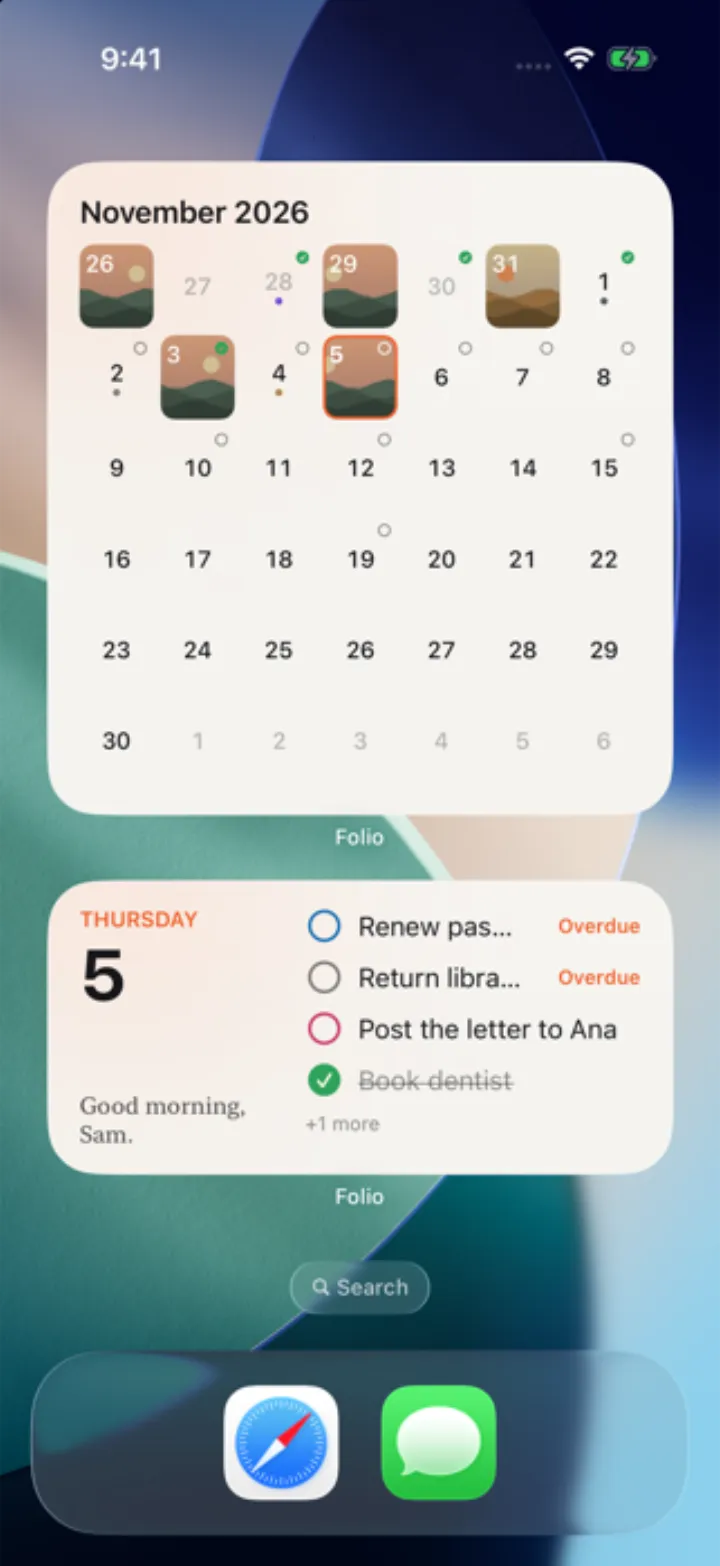
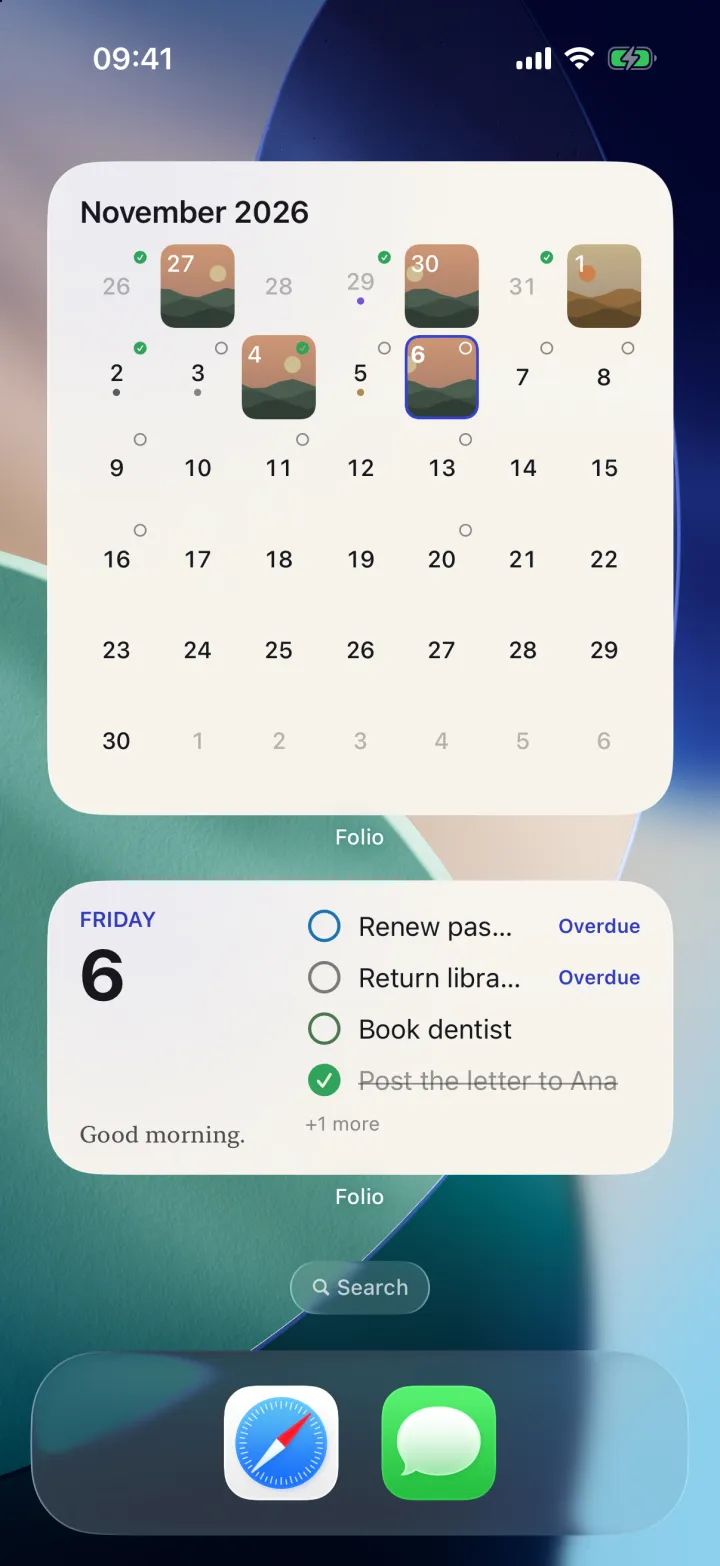
Batch L Part 1: web sign-in renders at once (no splash; inline loader only while a signed-in browser opens), Ink widget screenshots, plural fixes (widgets, Year in Pixels, web), orange leftovers on the home page; decisions 286-287

diff --git a/web/src/app/ui/AppRoot.tsx b/web/src/app/ui/AppRoot.tsx
@@ -35,7 +35,9 @@ const SIGN_IN_ERRORS: Record<string, string> = {
  * account) → the diary. Nothing from the diary exists until the Data Key is in memory.
  */
 export default function AppRoot() {
-  const [phase, setPhase] = useState<Phase>({ kind: 'loading' });
+  // Batch L: no splash. A browser that wasn't signed in sees the sign-in page at once (the
+  // session check runs underneath); one that was shows the gate with a small inline loader.
+  const [phase, setPhase] = useState<Phase>(() => (hadSession() ? { kind: 'loading' } : { kind: 'signedOut', error: urlError() }));
 
   async function boot() {
     try {
@@ -44,8 +46,8 @@ export default function AppRoot() {
       await signedIn(await api<Me>('GET', 'account/me'));
     } catch (error) {
       if (error instanceof ApiError && error.status === 401) {
-        const code = new URLSearchParams(location.search).get('error');
-        setPhase({ kind: 'signedOut', error: code ? SIGN_IN_ERRORS[code] : undefined });
+        rememberSession(false);
+        setPhase({ kind: 'signedOut', error: urlError() });
       } else {
         setPhase({ kind: 'offline' });
       }
@@ -53,6 +55,7 @@ export default function AppRoot() {
   }
 
   async function signedIn(me: Me) {
+    rememberSession(true);
     void reportBrowserName(me.sessionId);
     // Deleting the account needs no key, so that page never unlocks the diary.
     if (location.pathname.startsWith('/app/settings/account')) return setPhase({ kind: 'deleting', me });
@@ -71,6 +74,7 @@ export default function AppRoot() {
   async function signOut() {
     try { await api('POST', 'auth/sign-out', {}); } catch { /* the session ends here either way */ }
     await forgetBrowser();
+    rememberSession(false);
     history.replaceState(null, '', '/app');
     setPhase({ kind: 'signedOut' });
   }
@@ -78,7 +82,7 @@ export default function AppRoot() {
   useEffect(() => { void boot(); }, []);
   useEffect(setUpInstall, []);
 
-  const fallback = <Splash />;
+  const fallback = <Opening />;
   switch (phase.kind) {
     case 'loading': return fallback;
     case 'offline':
@@ -111,13 +115,27 @@ export function Gate({ children }: { children: React.ReactNode }) {
   );
 }
 
-function Splash() {
+/** While a signed-in browser's session and keys load: the gate itself, with one quiet line. */
+function Opening() {
   return (
-    <main className="gate" aria-busy="true">
-      <Mark className="mark" />
-      <span className="sr-only">Loading Folio</span>
-    </main>
+    <Gate>
+      <h1>Your days, kept.</h1>
+      <p className="loading-line" role="status"><span className="spinner" aria-hidden="true" />Opening your diary…</p>
+    </Gate>
   );
+}
+
+const HINT = 'folio.signedIn';
+/** Only a hint for which screen to draw first ("1" after a sign-in here); the cookie decides. */
+function hadSession(): boolean {
+  try { return localStorage.getItem(HINT) === '1'; } catch { return false; }
+}
+export function rememberSession(yes: boolean) {
+  try { if (yes) localStorage.setItem(HINT, '1'); else localStorage.removeItem(HINT); } catch { /* private mode */ }
+}
+function urlError(): string | undefined {
+  const code = new URLSearchParams(location.search).get('error');
+  return code ? SIGN_IN_ERRORS[code] : undefined;
 }
 
 /** Devices shows "Brave on macOS" — Brave's User-Agent says Chrome (DECISIONS 189). */

diff --git a/web/src/app/ui/SignIn.tsx b/web/src/app/ui/SignIn.tsx
@@ -1,7 +1,7 @@
 import { useEffect, useRef, useState } from 'react';
 import { turnstileKey } from '../../config/app.ts';
 import { api, ApiError, friendly } from '../lib/api.ts';
-import { Gate } from './AppRoot.tsx';
+import { Gate, rememberSession } from './AppRoot.tsx';
 import { AppleLogo, GoogleLogo } from './Icons.tsx';
 
 declare global {
@@ -32,8 +32,8 @@ export function SignIn({ error }: { error?: string }) {
           {error && <p className="error" role="alert">{error}</p>}
           <div style={{ display: 'grid', gap: 10, marginTop: 6 }}>
             {asksInvite && <InviteField value={invite} onChange={setInvite} />}
-            <a className="provider apple" href={withInvite('/api/auth/apple/start')}><AppleLogo />Continue with Apple</a>
-            <a className="provider" href={withInvite('/api/auth/google/start?platform=web')}><GoogleLogo />Continue with Google</a>
+            <a className="provider apple" href={withInvite('/api/auth/apple/start')} onClick={() => rememberSession(true)}><AppleLogo />Continue with Apple</a>
+            <a className="provider" href={withInvite('/api/auth/google/start?platform=web')} onClick={() => rememberSession(true)}><GoogleLogo />Continue with Google</a>
             <div className="or">or</div>
             <button className="provider" onClick={() => setStep('email')}>Continue with email</button>
           </div>
@@ -42,7 +42,7 @@ export function SignIn({ error }: { error?: string }) {
       )}
       {step === 'email' && <EmailStep email={email} setEmail={setEmail} onSent={() => setStep('code')} onBack={() => setStep('choose')} />}
       {/* A fresh page load after sign-in: Turnstile's script never shares a page with the diary. */}
-      {step === 'code' && <CodeStep email={email} onDone={() => location.replace(location.pathname)} onBack={() => setStep('email')} />}
+      {step === 'code' && <CodeStep email={email} onDone={() => { rememberSession(true); location.replace(location.pathname); }} onBack={() => setStep('email')} />}
     </Gate>
   );
 }

diff --git a/web/src/app/app.css b/web/src/app/app.css
@@ -504,7 +504,25 @@ body:has(.gate) .aura { opacity: 0.5; }
 .gate .field { border-radius: 16px; }
 .gate-foot { font-size: 13px; color: var(--ink-secondary); text-align: center; }
 .gate-foot a { color: inherit; }
-@media (prefers-reduced-motion: no-preference) { .gate-card { animation: gateIn 0.6s cubic-bezier(0.23, 1, 0.32, 1) both; } }
+/* Batch L: the card only rises in on the very first paint (the static page); React's card replaces
+   it in place without moving, so the sign-in page never appears twice. */
+@media (prefers-reduced-motion: no-preference) { .boot .gate-card { animation: gateIn 0.5s cubic-bezier(0.23, 1, 0.32, 1) both; } }
+.loading-line { display: inline-flex; align-items: center; justify-content: center; gap: 10px; color: var(--ink-secondary); font-size: 15px; margin: 6px 0 4px; min-height: 52px; }
+.spinner { width: 16px; height: 16px; border-radius: 50%; border: 2px solid color-mix(in srgb, var(--ink) 16%, transparent); border-top-color: var(--accent); animation: spin 0.8s linear infinite; }
+@keyframes spin { to { transform: rotate(360deg); } }
+@media (prefers-reduced-motion: reduce) { .spinner { animation-duration: 2.4s; } }
+/* The static first paint: signed-out browsers see the sign-in words, signed-in ones "Opening…".
+   An installed app (standalone) keeps a short launch screen — the mark alone, like iOS. */
+.boot .when-session { display: none; }
+:root[data-session] .boot .when-session { display: inline-flex; }
+:root[data-session] .boot .when-guest { display: none; }
+.boot .launch { display: none; }
+@media (display-mode: standalone) {
+  .boot > :not(.launch, .aura) { display: none; }
+  .boot { grid-template-rows: 1fr; }
+  .boot .launch { display: grid; place-items: center; }
+  .boot .launch svg { width: 72px; height: 72px; }
+}
 @keyframes gateIn { from { opacity: 0; transform: translateY(12px) scale(0.98); } }
 
 @media (prefers-reduced-motion: reduce) {

diff --git a/ios/FolioWidgets/LockScreenWidgets.swift b/ios/FolioWidgets/LockScreenWidgets.swift
@@ -39,9 +39,9 @@ struct NextTaskView: View {
                     Text(next.title).font(.headline).lineLimit(2).privacySensitive()
                     if let time = next.timeText { Text(time).font(.caption) }
                 } else {
-                    Text(entry.openCount == 0 ? String(localized: "All clear") : String(localized: "\(entry.openCount) tasks to do"))
+                    Text(entry.openCount == 0 ? String(localized: "All clear") : (entry.openCount == 1 ? String(localized: "1 task to do") : String(localized: "\(entry.openCount) tasks to do")))
                         .font(.headline)
-                    Text(entry.pagesToday == 0 ? String(localized: "No pages yet today") : String(localized: "\(entry.pagesToday) pages today"))
+                    Text(entry.pagesToday == 0 ? String(localized: "No pages yet today") : (entry.pagesToday == 1 ? String(localized: "1 page today") : String(localized: "\(entry.pagesToday) pages today")))
                         .font(.caption)
                 }
             }
@@ -74,6 +74,6 @@ struct TodayCountView: View {
             Text("\(entry.openCount)").monospacedDigit()
         }
         .gaugeStyle(.accessoryCircularCapacity)
-        .accessibilityLabel(String(localized: "\(entry.openCount) tasks left today"))
+        .accessibilityLabel(entry.openCount == 1 ? String(localized: "1 task left today") : String(localized: "\(entry.openCount) tasks left today"))
     }
 }

diff --git a/ios/FolioWidgets/TodayWidget.swift b/ios/FolioWidgets/TodayWidget.swift
@@ -103,7 +103,7 @@ struct CountsLine: View {
     private var summary: String {
         var parts: [String] = []
         if entry.openCount > 0 { parts.append(String(localized: "\(entry.openCount) to do")) }
-        if entry.pagesToday > 0 { parts.append(String(localized: "\(entry.pagesToday) pages")) }
+        if entry.pagesToday > 0 { parts.append(entry.pagesToday == 1 ? String(localized: "1 page") : String(localized: "\(entry.pagesToday) pages")) }
         return parts.isEmpty ? String(localized: "A clear day") : parts.joined(separator: " · ")
     }
 }
@@ -118,7 +118,7 @@ struct TaskList: View {
         VStack(alignment: .leading, spacing: 7) {
             if !entry.homeDetails || entry.snapshot?.showsDetails == false {
                 Spacer(minLength: 0)
-                Text("\(entry.openCount) tasks to do")
+                Text(entry.openCount == 1 ? String(localized: "1 task to do") : String(localized: "\(entry.openCount) tasks to do"))
                     .font(.headline)
                     .foregroundStyle(WidgetPalette.ink)
                 Text("Turn on details in Folio → Profile → Widgets.")

diff --git a/web/src/app/ui/profile/RecentlyDeleted.tsx b/web/src/app/ui/profile/RecentlyDeleted.tsx
@@ -76,7 +76,7 @@ export default function RecentlyDeleted() {
                   onChange={(e) => { const s = new Set(selected); if (e.target.checked) s.add(item.id); else s.delete(item.id); setSelected(s); }} />}
                 <button className="grow" style={{ border: 0, background: 'none', textAlign: 'left', padding: '4px 0' }} onClick={() => kind === 'entry' && setPreview(preview === item.id ? null : item.id)} aria-expanded={kind === 'entry' ? preview === item.id : undefined}>
                   <span style={{ display: 'block' }}>{title(item.id)}</span>
-                  <span className="callout ink3">{[when(item.id), `${daysLeft(item.data.trashedAt!)} days left`].filter(Boolean).join(' · ')}</span>
+                  <span className="callout ink3">{[when(item.id), (daysLeft(item.data.trashedAt!) === 1 ? '1 day left' : `${daysLeft(item.data.trashedAt!)} days left`)].filter(Boolean).join(' · ')}</span>
                 </button>
                 {!selecting && <>
                   <button className="btn small" onClick={() => restore([item.id])}><Icon name="restore" small />Restore</button>

diff --git a/web/src/app/ui/journal/YearPixels.tsx b/web/src/app/ui/journal/YearPixels.tsx
@@ -54,7 +54,7 @@ export function YearPixels() {
             const opacity = d && byMood && mood ? mood.opacity : 1;
             return (
               <button key={key} className={`pixel${d ? ' written' : ''}${key > today ? ' future' : ''}${key === today ? ' today' : ''}`}
-                disabled={!d} aria-label={`${key}${d ? `, ${d.ids.length} pages${mood ? `, ${mood.title}` : ''}` : ', nothing written'}`}
+                disabled={!d} aria-label={`${key}${d ? `, ${d.ids.length === 1 ? '1 page' : `${d.ids.length} pages`}${mood ? `, ${mood.title}` : ''}` : ', nothing written'}`}
                 style={background ? { background, opacity } : undefined}
                 onClick={() => d && (d.ids.length === 1 ? openEntry(d.ids[0]!) : showDay(key))} />
             );

diff --git a/ios/Folio/Features/Journal/YearInPixelsView.swift b/ios/Folio/Features/Journal/YearInPixelsView.swift
@@ -130,7 +130,7 @@ struct YearPixelGrid: View {
     private func label(day: DayKey, pixel: YearPixel?) -> String {
         let date = day.utcDate.formatted(Date.FormatStyle(timeZone: .gmt).day().month(.wide))
         guard let pixel else { return String(localized: "\(date), nothing written") }
-        let pages = String(localized: "\(pixel.entryIDs.count) pages")
+        let pages = pixel.entryIDs.count == 1 ? String(localized: "1 page") : String(localized: "\(pixel.entryIDs.count) pages")
         return [date, pages, pixel.mood?.title].compactMap { $0 }.joined(separator: ", ")
     }
 }

diff --git a/web/src/three/Lock.tsx b/web/src/three/Lock.tsx
@@ -82,7 +82,7 @@ export function Lock({ dark, input }: { dark: boolean; input: SceneInput }) {
         </mesh>
         {parts.keyhole.map((geometry, i) => (
           <mesh key={i} geometry={geometry} position={[0, 0, 0.2806]}>
-            <meshBasicMaterial color="#1a0d08" />
+            <meshBasicMaterial color="#0d0f2a" />
           </mesh>
         ))}
         {/* The pivot sits on the left leg, so the shackle swings open the way a real one does. */}

diff --git a/docs/DECISIONS.md b/docs/DECISIONS.md
@@ -380,3 +380,8 @@ Owner's Part 1 findings on 0.1.0 (74): "All good" (2026-11-05). Skills installed
 283. **Logo "Nib book" (Batch K).** Three directions drawn (`docs/screenshots/batch-k/01-logo-directions.png`): A page + nib (clear but generic "document with pen"), B nib book (an open diary whose gutter is a fountain-pen nib), C bookmark nib (a page whose bookmark ends in a nib — reads as a document icon at small sizes). B chosen: symmetric, ownable, and it reads as diary + pen at 32 px; a simplified drawing (no slit, wider gutter) serves 16–32 px. One generator (`scripts/brand/generate.py`) writes every SVG and PNG from the same paths (macOS rasterises SVG natively, `render-svg.swift`). The app icon is an **Icon Composer `.icon` package** authored by hand (`icon.json` + one SVG layer, glass, 88 % scale; dark fill charcoal with an Ink-tinted mark) and checked with `ictool` in Default, Dark, Tinted light/dark and Clear light/dark (`03-app-icon-appearances.png`); XcodeGen 2.46 adds it as `wrapper.icon`, and the old `AppIcon.appiconset` is gone.
 284. **Custom symbols as real SF Symbol templates (Batch K).** 25 icons (`04-icon-set.png`) drawn once on a 100-unit grid as round-capped strokes and outlined by CoreGraphics into Ultralight-S / Regular-S / Black-S masters (stroke 3 / 9 / 13). Interpolation needs the masters to match point for point, so outlines are appended (not unioned — a union's structure changes with width; overlaps fill under non-zero), filled shapes grow by scaling, and smooth curves are offset by hand (CoreGraphics subdivides stroked Béziers and adds round joins by width). The generator checks that all three masters share one structure. `actool` needs the Notes text with `id="template-version"` ("Template v.3.0") or it reads the file as a legacy 27-glyph template. Used through `Tab(…, image:)`, `Label(…, image:)`, `Button(…, image: .folioX)` and `ProfileRowLabel(image:)`; generic glyphs stay SF Symbols. The web app renders the same Regular outlines (`folio-icons.ts`) as filled paths under the names it already used.
 285. **Batch K ship (2026-11-06).** Google root cause confirmed fixed: after the owner put a new `GOOGLE_CLIENT_SECRET`, a fake code gets `invalid_grant` (400) instead of `invalid_client` (401). /vibesec on auth and everything touched: no findings (redirects only to `folio://auth` / `/app` with a closed set of reasons; logs carry Google's error code and error class names only; `account_deleting` only after proving the Google identity; bounded same-origin photo retries; `npm audit` 0; gitleaks clean). Release 0 warnings. Website app screenshots and OG images regenerated (`scripts/site-shots.sh`, `scripts/og/render.mjs` — the OG template is committed now). TestFlight 0.1.0 (107) uploaded with `scripts/testflight.sh` (Xcode Cloud budget rule).
+
+## Batch L — website + web app overhaul, real-time sync, iPad, audits
+
+286. **No splash on the web app's sign-in (owner's bug, Batch L).** The full-screen logo came from two places: Astro's `client:only` fallback (a centred mark) and React's own `loading` phase (the same mark while `/api/auth/session` answered). Now the static fallback *is* the gate — card, "Your days, kept.", a small spinner where the buttons go — and the card's rise-in runs only on that first paint (`.boot`), so React's identical card replaces it without moving. A browser with no `folio.signedIn` hint starts in the signed-out phase and renders the sign-in buttons at once (measured: buttons on screen ~150 ms after navigation on the local build, the first frame Brave paints); the session check still runs and swaps to Unlock or the diary if a cookie exists. Choosing Apple/Google or finishing an email code sets the hint first, so the redirect back lands on "Opening your diary…", not a flash of sign-in. The hint is not security: the cookie and the API decide everything. Installed PWA (standalone) keeps a mark-only launch, like an iOS launch screen.
+287. **Plurals (Batch L audit).** "4 to do · 1 pages" on the Today widget (seen while taking the new widget screenshot) and the same pattern in the Lock Screen widgets, Year in Pixels labels and the web's Year/Recently Deleted labels: singular forms added. Website orange leftovers fixed: the privacy band's static lock poster, its italic accent and glow, the day story's night glow (the 3D lock was already Ink).

diff --git a/docs/SPEC.md b/docs/SPEC.md
@@ -479,6 +479,7 @@ Every page: title, meta description, OG image, favicons, sitemap.xml, robots.txt
 
 ### 11.3 Web app (`/app`) — same UI/UX as iOS
 - **Sign-in page:** the same three options (Apple / Google / email code with Turnstile). Then **Unlock**: "Scan with your iPhone" QR (default) or "Use recovery key"; optional "Trust this browser for 30 days".
+- **No splash (Batch L):** `/app`'s first paint is the sign-in gate itself (static HTML: card, headline, a small inline spinner where the buttons go), and React replaces it in place without re-animating. A browser that has never signed in shows the real sign-in page at once while the session check runs underneath; one that was signed in (`localStorage` hint `folio.signedIn` = "1", set on sign-in, removed on sign-out or a refused session — only a hint, the cookie decides) shows the gate with "Opening your diary…". Only the installed app (`display-mode: standalone`) keeps a short launch screen: the mark alone, like iOS.
 - **Layout ≥ 1024 px:** left glass sidebar (Calendar · Journal · To-do · Profile; avatar at bottom), centre month grid with identical cell states, right day panel; composing opens a right-side glass sheet so the calendar stays visible. **< 768 px:** identical to iOS — floating glass tab bar, bottom-drawer composer.
 - **Search (Batch J):** "Search" in the sidebar and the phone tab bar, "/" or ⌘K: the same words, filters and highlights as §6.17, run in memory over the diary this tab has already decrypted; results open the entry or task sheet. Nothing is indexed on the server or stored in the browser.
 - **Installable (Batch J):** `manifest.webmanifest` (id/start/scope `/app`, standalone, paper colours, 192/512 icons + a maskable one rendered from the mark by `scripts/pwa-icons.swift`), Apple web-app meta tags, and a service worker (`/app-sw.js`, scope `/app`) that caches **only the app shell** — the `/app` page (network first) and hashed `/_astro`, fonts and icons (cache first). It never touches `/api`, so no diary data, ciphertext or photo is cached; opened offline, the installed app shows its "You're offline" gate. "Install on your phone" in the web app's Profile (Chrome's install prompt when offered, plus steps for Safari, Android and desktop) and on the website's Download page.
